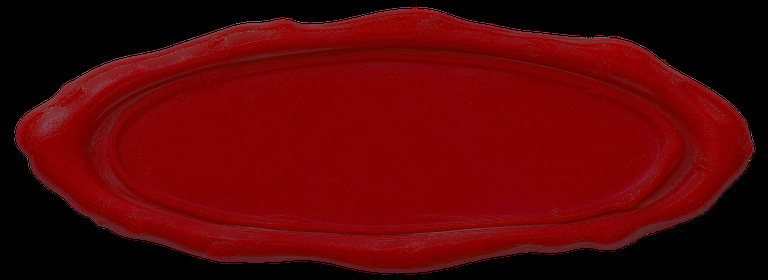
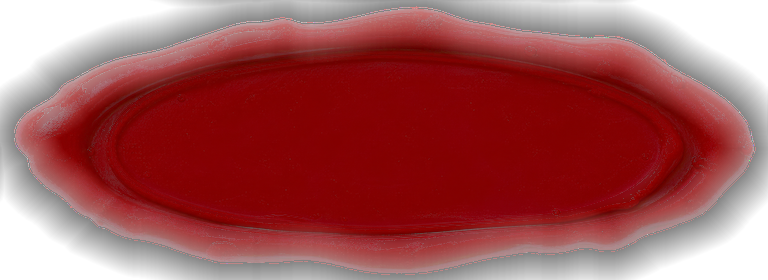
Pour the seal as real wax, and press its label into it
The entrance now pools a wet puddle with its own uneven outline, a new
one each pour: lobes run ahead or lag as it spreads, quick then slow. A
stamp's shadow comes over it, the press squeezes it out into the seal's
outline (its signed distance, baked into the colour's alpha) and rolls up
the lip, and it lifts while the wax is still wet; the gloss then sets.
2.8 s. The label is no longer laid on top: its letters are a height map
raised in the wax, lit and shadowed with it, formed by the press.

diff --git a/src/wax/wax-study.css b/src/wax/wax-study.css
@@ -55,6 +55,10 @@ output { color: var(--ink); min-width: 2.6em; font-variant-numeric: tabular-nums
   color: transparent;
   text-shadow: none;
 }
+/* Pressed into the wax, the label is drawn by the WebGL seal; the text stays
+   for screen readers. */
+.seal[data-letters] .seal-label { color: transparent; text-shadow: none; }
+.seal[data-letters] .seal-label::after { content: none; }
 /* The WebGL seal draws over its photo, which stays until the model is ready. */
 .seal > .gl, .seal > .fallback { position: absolute; inset: 0; width: 100%; height: 100%; }
 .seal:has(.gl[data-ready]) > .fallback { visibility: hidden; }

diff --git a/tools/build-wax-seal.py b/tools/build-wax-seal.py
@@ -41,15 +41,20 @@ def blur(a, r):
 def masked_blur(a, weight, r):
     return blur(a * weight, r) / np.maximum(blur(weight, r), 1e-4)
 
-# Distance inside the outline, in source pixels.
-outer = np.where(mask, 1000., 0.).astype(np.float32)
-for _ in range(90):
-    old = outer.copy()
-    for axis in (0, 1):
-        outer = np.minimum(outer, np.roll(old, 1, axis) + 1)
-        outer = np.minimum(outer, np.roll(old, -1, axis) + 1)
-    for y, x in ((1, 1), (1, -1), (-1, 1), (-1, -1)):
-        outer = np.minimum(outer, np.roll(old, (y, x), (0, 1)) + 1.414214)
+def chamfer(inside, steps):
+    distance = np.where(inside, 1000., 0.).astype(np.float32)
+    for _ in range(steps):
+        old = distance.copy()
+        for axis in (0, 1):
+            distance = np.minimum(distance, np.roll(old, 1, axis) + 1)
+            distance = np.minimum(distance, np.roll(old, -1, axis) + 1)
+        for y, x in ((1, 1), (1, -1), (-1, 1), (-1, -1)):
+            distance = np.minimum(distance, np.roll(old, (y, x), (0, 1)) + 1.414214)
+    return distance
+
+# Distance inside the outline, in source pixels, and outside it.
+outer = chamfer(mask, 90)
+outside = chamfer(~mask, 41)
 
 # The sunken field is a clean oval, not a copy of the wavy outline. Its rim,
 # the thin inner ridge, was measured on the image: centre (383, 145) from the
@@ -108,9 +113,12 @@ def texture(name, pixels, colour, save_to=None):
 
 peak = float(height.max())
 normal_image = texture('Wax normal • OpenGL', np.dstack((normal * .5 + .5, alpha)), 'Non-Color')
-# The website takes its outline from the seal image, so the colour is opaque.
+# The website takes its outline from the seal image.
 albedo_image = texture('Wax colour • without baked light', np.dstack((albedo, alpha)), 'sRGB')
-texture('Wax colour • web', np.dstack((albedo, np.ones_like(alpha))), 'sRGB', SOURCE / 'wax-seal-albedo.png')
+# Its alpha is the outline's signed distance, ±40 source pixels about 0.5,
+# for the entrance's puddle to become the seal (src/wax/wax-gl.mjs).
+outline = np.clip(.5 + (np.where(mask, outer, -outside)) / 80, 0, 1)
+texture('Wax colour • web', np.dstack((albedo, outline)), 'sRGB', SOURCE / 'wax-seal-albedo.png')
 # R,G: OpenGL normal (y up). B: height / peak. A: cavity.
 texture('Wax relief • normal, height, cavity',
         np.dstack((normal[:, :, 0] * .5 + .5, normal[:, :, 1] * .5 + .5, height / peak, cavity)),
